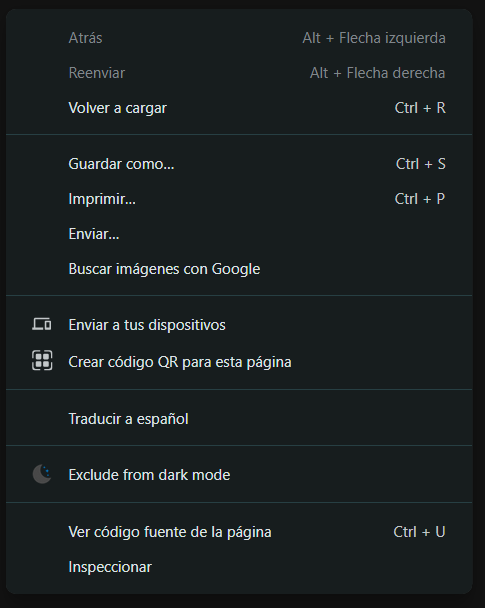
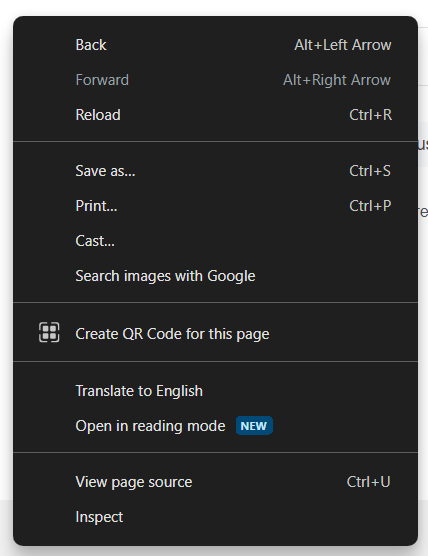
Added content for get method in Playing with HTTP

diff --git a/DotNet/3.HTTP/Playing with HTTP.md b/DotNet/3.HTTP/Playing with HTTP.md
@@ -2,16 +2,61 @@
 
 ## Use Developer Options in Navigator
 
-In order to view HTTP requests in the browser, it is necessary to enter the development tools of the browser of your choice. For these examples they will be carried out in the **Google Chrome browser**, however, it is possible that the method is similar in your browser. preference
+To view HTTP requests in your browser, it is essential to access the development tools built into the browser you prefer to use. Before continuing, it is important to note that all modern browsers have similar development tools that allow you to perform web page inspection and debugging tasks. However, in this case we will focus on explaining the process using the Google Chrome browser, given its great popularity and set of development tools.
 
-### Open Development Tools
+Accessing the developer tools gives you a window into your browser's internal "engine," allowing you to inspect, modify, and debug a web page's code in real time. This is crucial for understanding how different elements on a page interact and for identifying potential problems, including those related to HTTP requests.
 
-There are two ways to access the browser's development tools, below we will explain the two possible ways to access this tool
+Normally, to access the browser development tools, all you have to do is right-click anywhere on the web page. In this way, a menu of options will appear where we can select the "Inspect" option, which will allow us to access your browser's developer tools.
 
-#### Using keyboard shortcuts
+![VS code .Net extensions](../assets/HTTP/development_tools_firts_menu.png)
 
-To be able to access the development tools with keyboard shortcuts, it is very simple, you simply have to position the mouse cursor anywhere in the browser, then you must press the following keys on your device's:
+<p style="color:yellow">Note: The instructions and images presented correspond to the process of viewing the developer options in Google Chrome, however, the steps in other commercial browsers are very similar to those presented previously in this section </p>
 
-#### Using browser menus
+Importantly, these development tools not only allow you to view HTTP requests, but also analyze their contents, inspect request and response headers, and much more. This gives you deep insight into the inner workings of a website and helps you resolve issues related to network traffic.
 
-## HTTP Response
+Exploring and becoming familiar with development tools is an invaluable skill for any web developer, regardless of which browser they use.
+
+![VS code .Net extensions](../assets/HTTP/development_tools_navigator.png)
+
+## HTTP Request
+
+Now, based on the information presented above in [[Understanding HTTP]], we have different methods used in resource management. For this case, we are going to take into account how we can interact with these resources using the **Development Tools** mentioned above
+### GET Method
+As mentioned before, this method allows us to access a specific resource, so in this case we are going to access a resource through GET and using URLs, so we need a project to access a resource, For this case, we will access a text string with "Hello World!"
+
+```csharp
+var builder = WebApplication.CreateBuilder(args);
+var app = builder.Build();
+
+app.MapGet("/", () => "Hello World");
+
+app.Run();
+```
+
+Now, when executing the code and taking into account that the project URL is the address determined in the project settings (in this case, it is `localhost:7295`), we can access the content from our browser.
+
+To do this, simply open your preferred browser and enter the URL `https://localhost:7295`. This will send a GET request to the server, which will respond with the content specified in our code, in this case, the message "Hello World."
+<p style="color:yellow">Note: To find out the URL of your project, you must go to its root and access the Properties folder. Inside this folder, you will find a file called launchSettings.json, which contains the configuration parameters for your project. It is in this file where you should look for the "applicationUrl" field to find out the address (or addresses) of your project. </p>
+When executed in the browser, we can see that the "Hello World" present in the code is presented, so now, if we access the developer tools, in the "Network" tab and reload the page, we can see the request What we have just done to the server, with additional properties, if we click on the request, we can see in detail more information about the GET request made
+
+![VS code .Net extensions](../assets/HTTP/Get_method_show.png)
+In the request, we can see some fields that are related to what is presented in [[Understanding HTTP]]. Next, we are going to present the most relevant ones of this request:
+
+1. **General:**
+	 - **Request URL**: This is the URL to which we make the request.
+	 - **Request Method**: Type of request we make. In this case, the request type is GET.
+	 - **Status Code**: Code that refers to the status of the request we made. In this case it is 200. For more information on the codes, see the following link: [HTTP response status codes](https://developer.mozilla.org/en-US/docs/Web/HTTP/Status).
+	 - **Remote Address**: IP address of the server to which the request was sent.
+	 - **Referrer Policy**: Referrer policy that controls what referrer information is included with the request.
+2. **Response Headers:**
+	 - **Content-Type**: Type of content sent in the response.
+	 - **Date**: Date the response was sent.
+	 - **Server**: Information about the server that sends the response.
+3. **Request Headers:**
+	 - **authority**: Authority of the requested resource.
+	 - **method**: Request method used.
+	 - **path**: Path of the requested resource.
+	 - **schemes**: URI schemes supported by the client.
+### POST Method
+### PUT Method
+### DELETE Method

diff --git a/DotNet/2.First Steps/First Steps.md b/DotNet/2.First Steps/First Steps.md
@@ -2,4 +2,5 @@
 
 1. [[Servers]]
 2. [[My First Project (.Net CLI)]]
-3. [[2.First Steps/Interview Q&A]]
+3. [[My First Proyect (Visual Studio 2022)]]
+4. [[2.First Steps/Interview Q&A]]

diff --git a/DotNet/3.HTTP/HTTP.md b/DotNet/3.HTTP/HTTP.md
@@ -1,4 +1,5 @@
 ## Index
 
 1. [[Understanding HTTP]]
-2. [[3.HTTP/Interview Q&A]]
+2. [[3.HTTP/Interview Q&A|Interview Q&A]]
+3. [[Playing with HTTP]]
